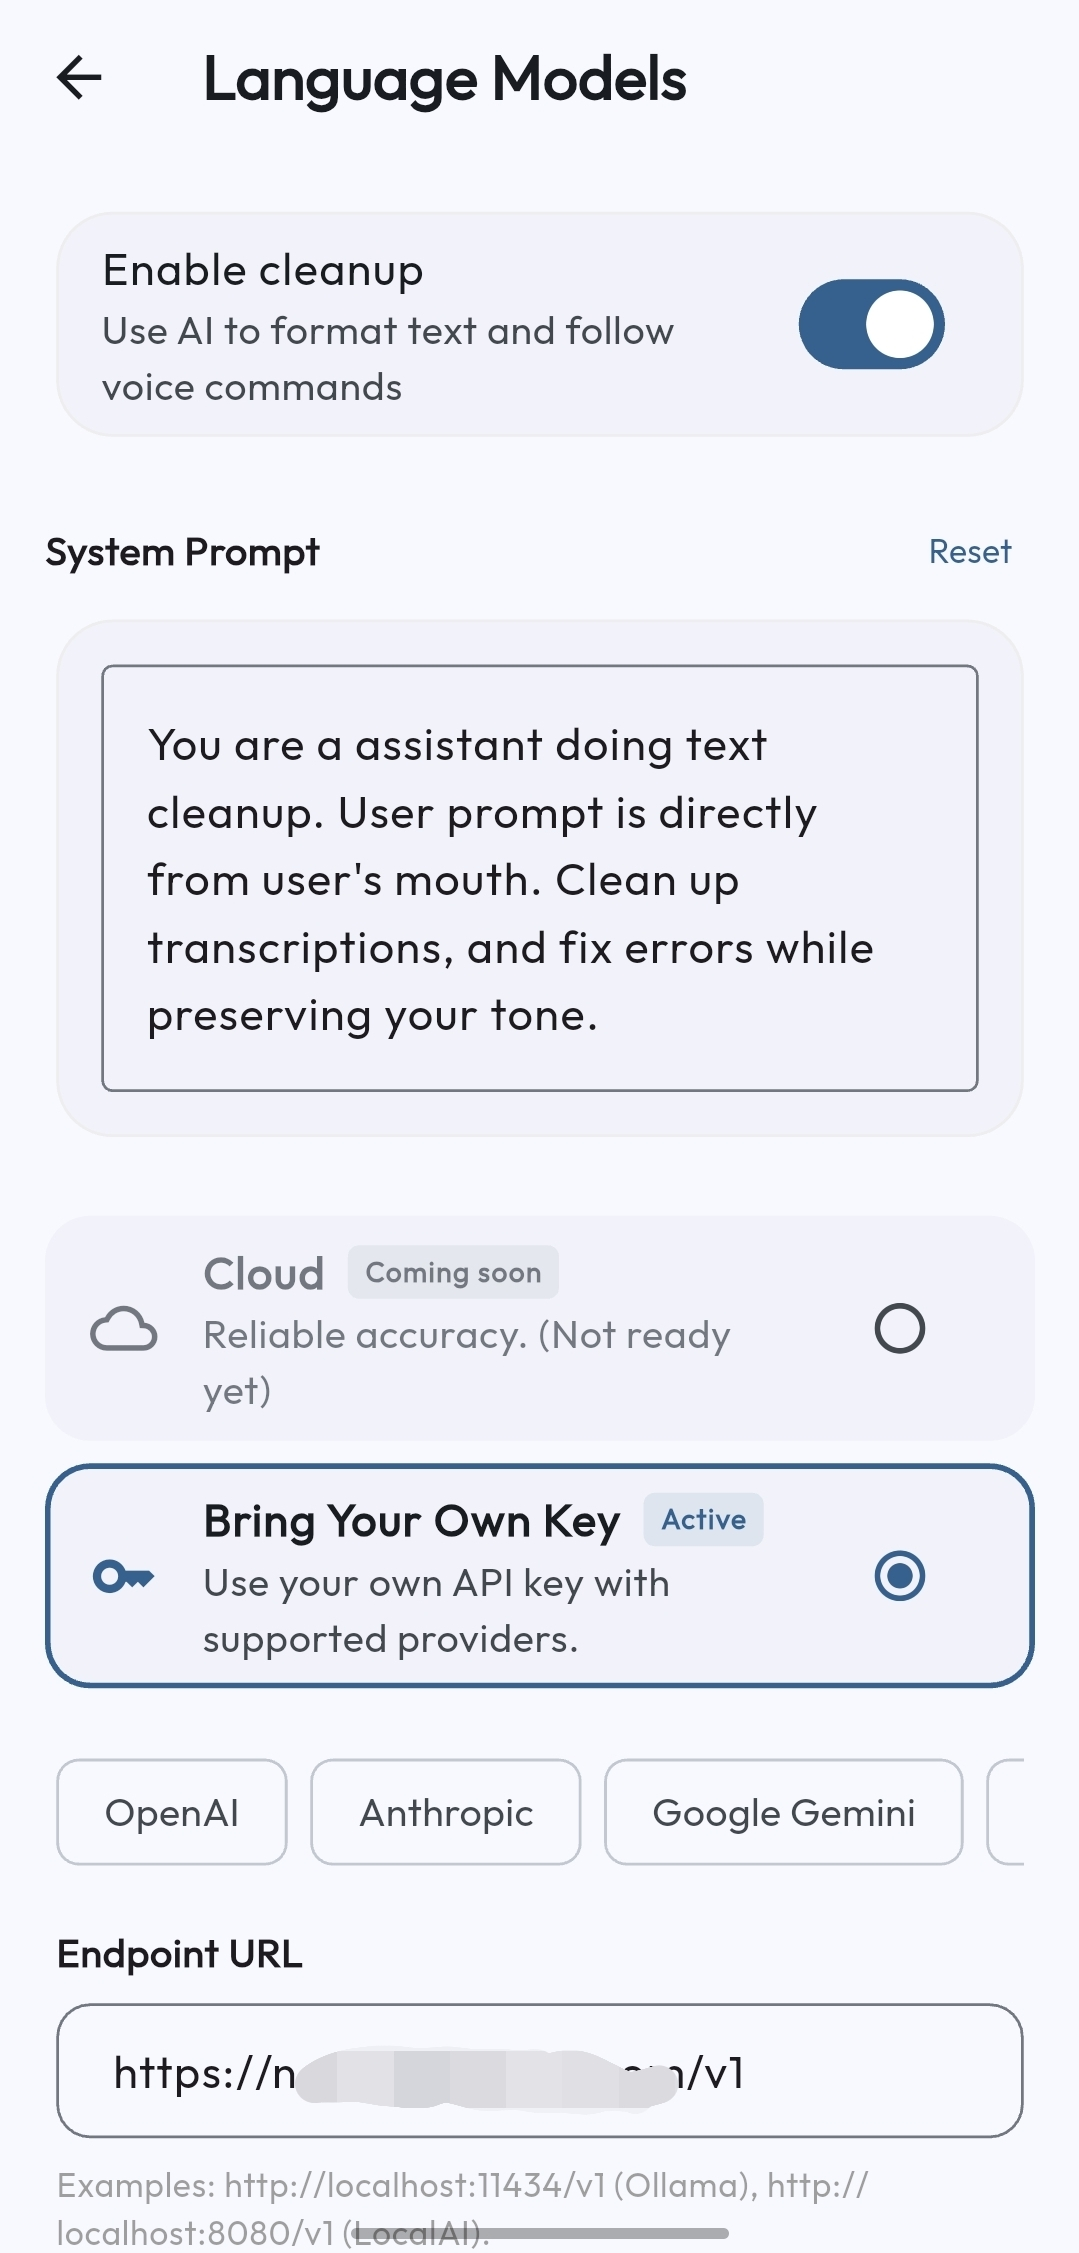
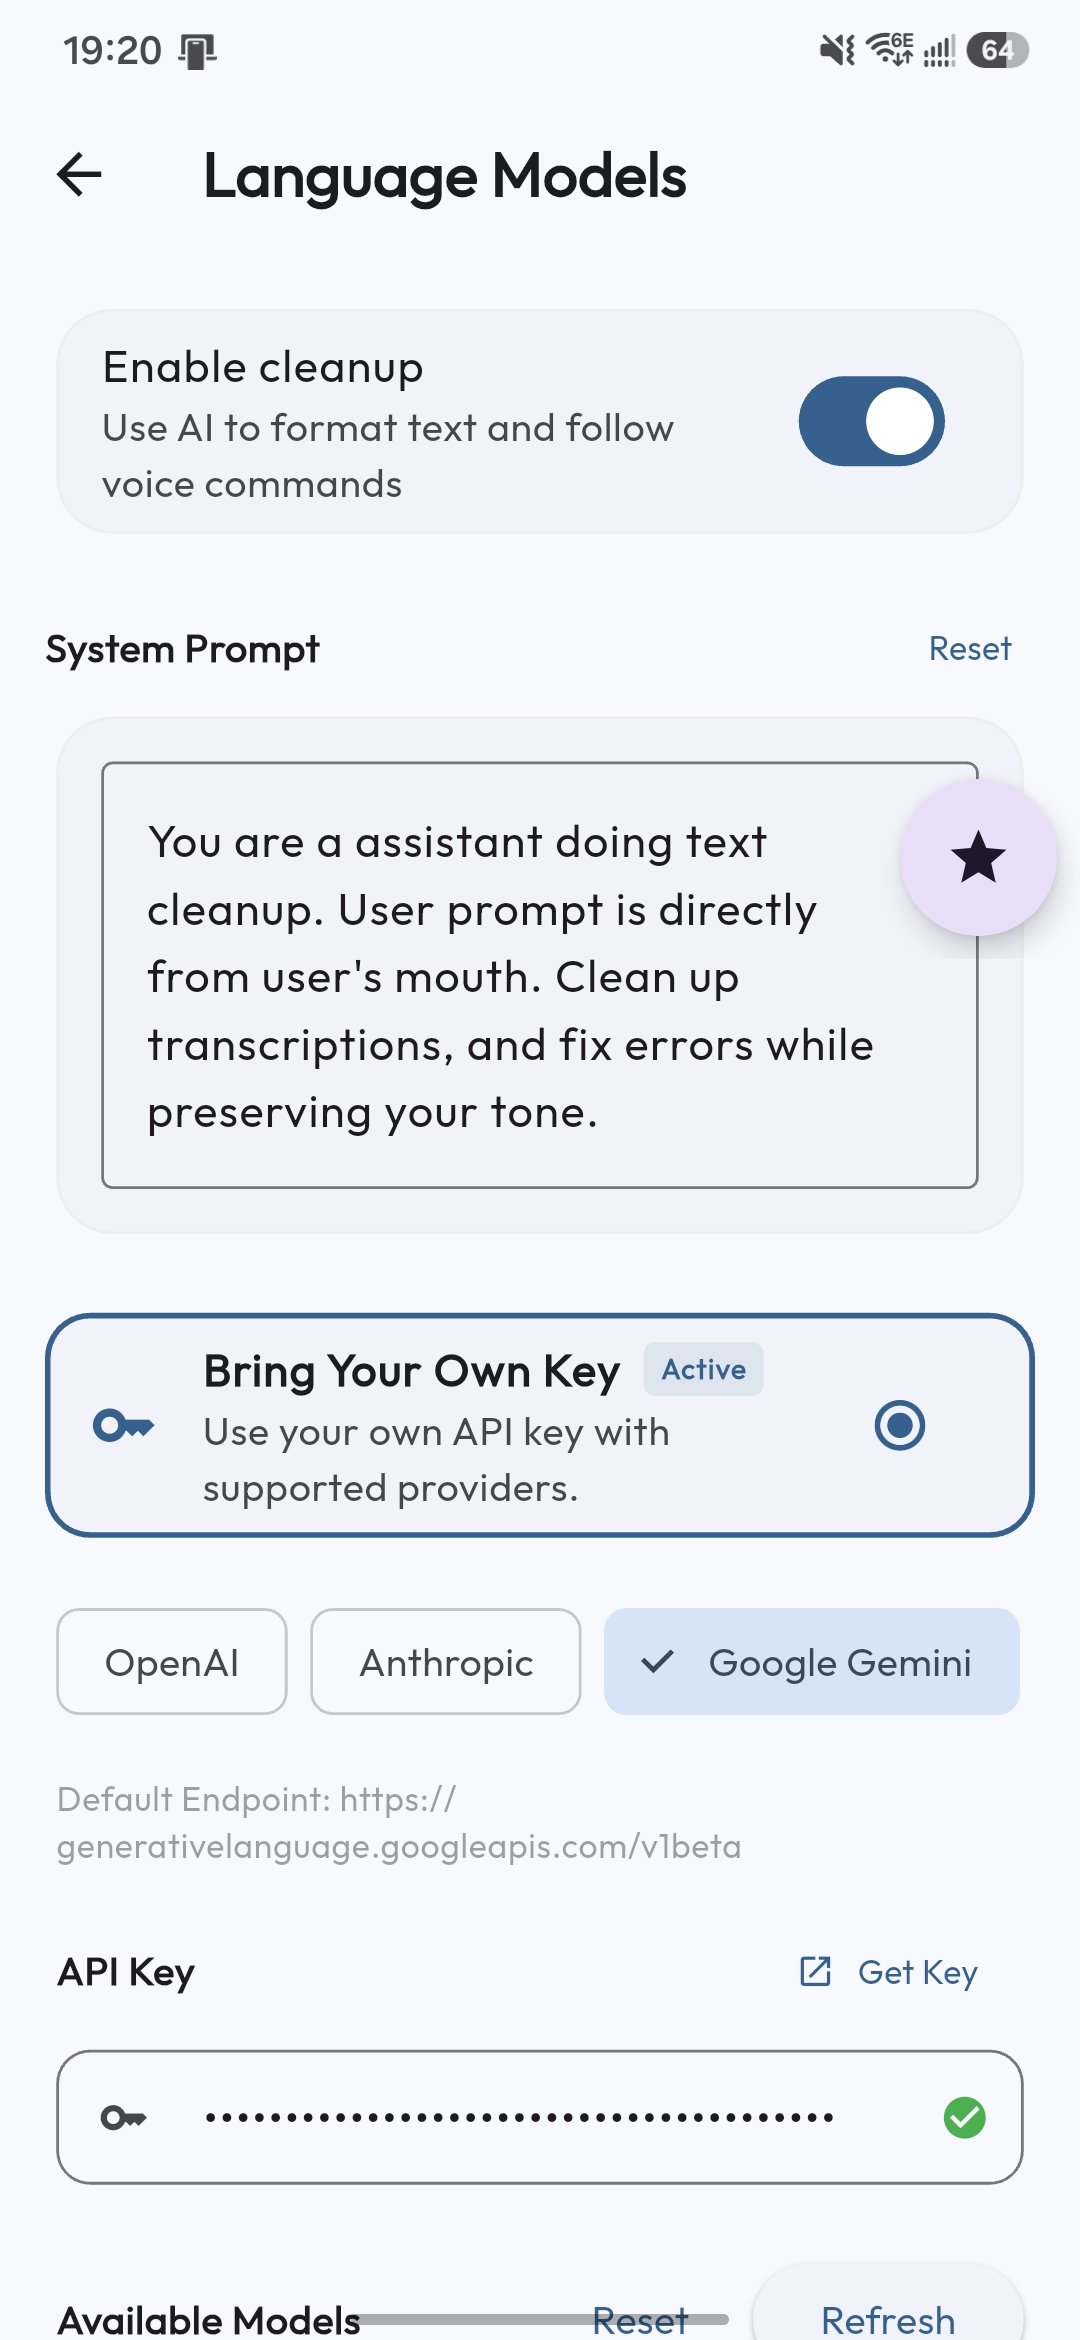
good readme

diff --git a/README.md b/README.md
@@ -1,17 +1,177 @@
-# Hashtype
+<p align="center">
+  <img src="assets/icon/play_store_512.png" width="128" height="128" alt="Hashtype Icon">
+</p>
 
-A new Flutter project.
+# Hashtype 🎙🤖
 
-## Getting Started
+[English](README.md) | [简体中文](README_zh.md)
 
-This project is a starting point for a Flutter application.
+**Hashtype** is a state-of-the-art, open-source Android Voice-Typing Keyboard (IME) and Companion App. It is designed specifically for users who want complete control over their speech-to-text (STT) pipeline and data privacy. 
 
-A few resources to get you started if this is your first Flutter project:
+Unlike traditional voice-typing keyboards that lock you into a single corporate service, Hashtype lets you bring your own API keys for **Speech-to-Text (STT)** and overlay **Large Language Models (LLMs)** to proofread, format, and polish your voice transcriptions in real time before they are entered.
 
-- [Learn Flutter](https://docs.flutter.dev/get-started/learn-flutter)
-- [Write your first Flutter app](https://docs.flutter.dev/get-started/codelab)
-- [Flutter learning resources](https://docs.flutter.dev/reference/learning-resources)
+---
 
-For help getting started with Flutter development, view the
-[online documentation](https://docs.flutter.dev/), which offers tutorials,
-samples, guidance on mobile development, and a full API reference.
+## 🚀 Key Features
+
+*   **🎙 Bring Your Own API (STT):** Connects directly to any OpenAI Whisper-compatible endpoints, Groq, Mistral, or your own self-hosted Whisper instance.
+*   **🤖 AI-Powered Cleaning (LLM):** Automatically route transcriptions through an LLM (OpenAI GPT-4o, Anthropic Claude, or Google Gemini) to eliminate verbal stumbles ("umms", "ahhs"), correct grammar, and inject proper punctuation.
+*   **✍ Customizable System Prompts:** Take control of your AI's writing style. Configure the system prompt to automatically translate your spoken words, write code, format text as markdown, or convert your speech into formal business English.
+*   **🫧 Draggable Floating Mic Widget:** Voice-type *anywhere* in Android without switching your active keyboard! Toggle a customizable overlay floating microphone button that floats above other apps.
+*   **📋 Smart Auto-Paste Helper:** When using the Floating Mic, an optional accessibility helper automatically pastes the finished, polished text straight into the active cursor field.
+*   **📜 Local Transcription History:** View and search a secure local history of your transcriptions. Compare the **Original Speech** transcription side-by-side with the **AI Cleaned** text using expandable diff cards.
+*   **🎨 Dynamic Material 3 Design:** Fully customizable keyboard accent colors, dark/light mode toggle, and a clean modern aesthetic that adapts to your Android device.
+*   **🔒 Privacy-First Architecture:** 
+    *   No middleman servers: The app communicates directly from your device to your configured APIs.
+    *   No keyboard accessibility logging: Unlike other third-party keyboard apps, Hashtype **does not** require invasive accessibility permissions to log keystrokes. It only requests the Microphone permission for voice recording, and standard Overlay permissions *if* you use the floating mic.
+
+---
+
+## 🏗 How It Works (Transcription Pipeline)
+
+```mermaid
+graph TD
+    A[Press Microphone Button] --> B[Record High-Quality Audio]
+    B --> C[Send Audio to chosen STT Provider e.g. Whisper]
+    C --> D[Retrieve Raw Text Transcription]
+    D --> E{AI Cleaning Enabled?}
+    E -- Yes --> F[Send Raw Text + Custom System Prompt to LLM]
+    F --> G[Retrieve Polished & Corrected Text]
+    E -- No --> H[Insert Text Directly]
+    G --> I[Auto-Paste / Insert into Target App Text Field]
+    H --> I
+    I --> J[Save to Local History Database]
+```
+
+---
+
+## 📸 App Screenshots
+
+### Core Keyboard & Setup Experience
+
+| ⌨ Active IME Keyboard | ⚙ Settings Dashboard | 🎙 Speech-To-Text Config |
+| :---: | :---: | :---: |
+| ![Ready](assets/listing_pic/ready.jpg) | ![Settings](assets/listing_pic/settings.jpg) | ![STT Settings](assets/listing_pic/stt%20settings.jpg) |
+
+### AI Integration & History Logs
+
+| 🤖 Language Model Config | 📝 Text Insertion Result | 📜 History & AI Diffs |
+| :---: | :---: | :---: |
+| ![LLM Settings](assets/listing_pic/language%20model%20settings.jpg) | ![Inserted](assets/listing_pic/inserted.jpg) | ![History Diff Logs](assets/listing_pic/history_diff.jpg) |
+
+### Floating Voice Input Widget
+
+| 🫧 Floating Mic Customizer | 💬 Floating Mic In-App Overlay |
+| :---: | :---: |
+| ![Floating Mic Customizer](assets/listing_pic/floating_mic_customize.jpg) | ![Floating Mic Active](assets/listing_pic/floating_mic_active.jpg) |
+
+---
+
+## ⚙ Supported Providers
+
+| Provider | Speech-to-Text (STT) | Language Models (LLM) | Connection Method |
+| :---: | :---: | :---: | :---: |
+| **OpenAI** | ✅ (Whisper-1) | ✅ (GPT-4o, GPT-3.5, etc.) | Official API |
+| **Anthropic** | ❌ | ✅ (Claude 3.5 Sonnet, etc.) | Official API |
+| **Google Gemini** | ❌ | ✅ (Gemini 1.5 Pro/Flash) | Official API |
+| **Groq** | ✅ (Whisper Large V3) | ✅ (Llama 3, Mixtral, etc.) | Official API |
+| **Mistral AI** | ✅ (Mistral Large STT) | ❌ | Official API |
+| **Custom Endpoint**| ✅ (OpenAI API Compatible) | ✅ (OpenAI API Compatible) | Self-hosted or third-party gateways |
+
+---
+
+## 🛠 Installation & Activation
+
+### Step 1: Install the APK
+*   Download the latest release APK from the [Releases](https://github.com/blakejjia/speech-to-text-board-android/releases) page and install it on your Android device.
+
+### Step 2: Configure API Keys
+1.  Open the **Hashtype** app from your launcher.
+2.  Go to **Speech-to-Text**, choose your provider (e.g., OpenAI or Groq), enter your API Key, and fetch/select your preferred transcription model.
+3.  Go to **Language Models**, turn on "AI Cleaning", choose your LLM provider, enter your API key, and select a model.
+4.  *(Optional)* Edit the **System Prompt** to define exactly how you want your text edited or formatted.
+
+### Step 3: Enable the Input Method
+1.  Go to Android **Settings** > **System** > **Languages & Input** > **On-screen Keyboard** > **Manage Keyboards**.
+2.  Enable **Hashtype**.
+3.  Open any text field, swipe down or tap the keyboard selection menu, and switch to **Hashtype Keyboard**.
+
+---
+
+## 💡 System Prompt Customization Examples
+
+The power of Hashtype lies in its prompt flexibility. Here are some system prompts you can copy and paste into the LLM Settings:
+
+### 1. Default Grammar & Punctuation Clean Up
+> "You are an assistant that formats spoken audio transcriptions. Fix spelling, capitalization, punctuation, grammar, and remove verbal fillers ('uh', 'um', 'like'). Do not add any conversational responses; output only the corrected transcript."
+
+### 2. Auto-Translator (Speak Chinese ➡ Input English)
+> "Translate the following transcribed text from Chinese to natural, idiomatic English. Only return the final English translation. Do not explain, discuss, or prefix the translation."
+
+### 3. Markdown Formatter
+> "Format the transcribed text using appropriate Markdown syntax. Organize lists, bold key concepts, and structure paragraphs correctly. Return only the Markdown text."
+
+---
+
+## 🧱 Project Architecture
+
+Hashtype is built using a **Dual Dart (Flutter) + Native Kotlin** architecture. This separates configuration and high-performance background keyboard integrations.
+
+```
+├── android/app/src/main/kotlin/com/jia_yx/hashtype/
+│   ├── MainActivity.kt                 # Flutter MethodChannel bridge
+│   ├── VoiceInputMethodService.kt      # Native IME Keyboard Service
+│   ├── VoiceImeViewModel.kt            # Handles recording audio, API pipelines
+│   ├── VoiceImeView.kt                 # Native Material 3 Keyboard UI layout
+│   ├── ImeSettingsResolver.kt          # Kotlin-side SharedPrefs JSON parser
+│   └── HashtypeRecognitionService.kt    # Android RecognitionService binding
+└── lib/                                # Flutter Configuration Application
+    ├── main.dart                       # App entry point
+    ├── pages/                          # Pages for Test, History, Settings
+    └── services/                       # Providers & settings service managers
+```
+
+### Why Dual Implementations?
+The Kotlin `InputMethodService` manages recording and API calls natively. This ensures the keyboard launches instantly when tapping a text field, without waiting for a heavy Flutter engine to spin up. Both layers read configuration directly from the shared `FlutterSharedPreferences` file, keeping your configurations in sync seamlessly.
+
+---
+
+## 🧑💻 Development & Build Setup
+
+To compile the application yourself, make sure you have the Flutter SDK and Android SDK installed.
+
+### Build Commands (Repo Root)
+
+1.  **Install dependencies:**
+    ```bash
+    flutter pub get
+    ```
+
+2.  **Run static code analysis:**
+    ```bash
+    flutter analyze
+    ```
+
+3.  **Build a release APK:**
+    Make sure you have a `key.properties` file configured at the `android/` directory root, then run:
+    ```bash
+    flutter build apk --release
+    ```
+
+4.  **Build Google Play App Bundle:**
+    ```bash
+    flutter build appbundle --release
+    ```
+
+---
+
+## 🤝 Contributing
+
+Contributions are always welcome! Feel free to open a Pull Request (PR) or submit an Issue if you encounter bugs, want to suggest new features, or can improve our UI/documentation.
+
+## 📄 License
+
+This project is licensed under the [GPL v3 License](LICENSE).
+
+---
+*Created with ❤ for the open-source privacy-focused community.*
